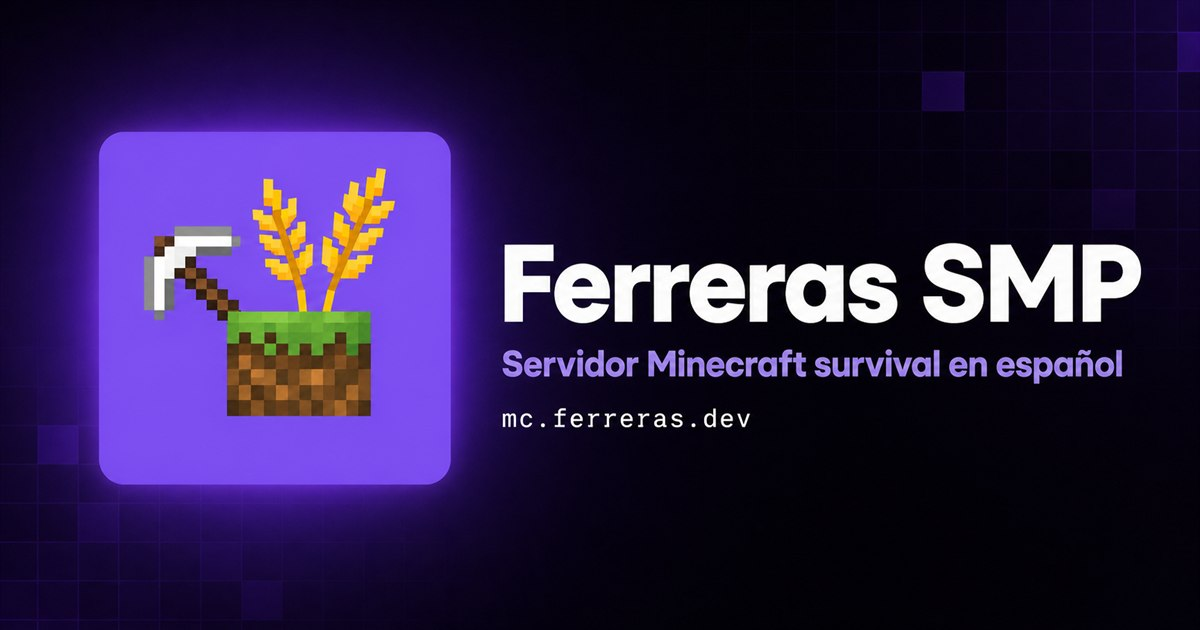
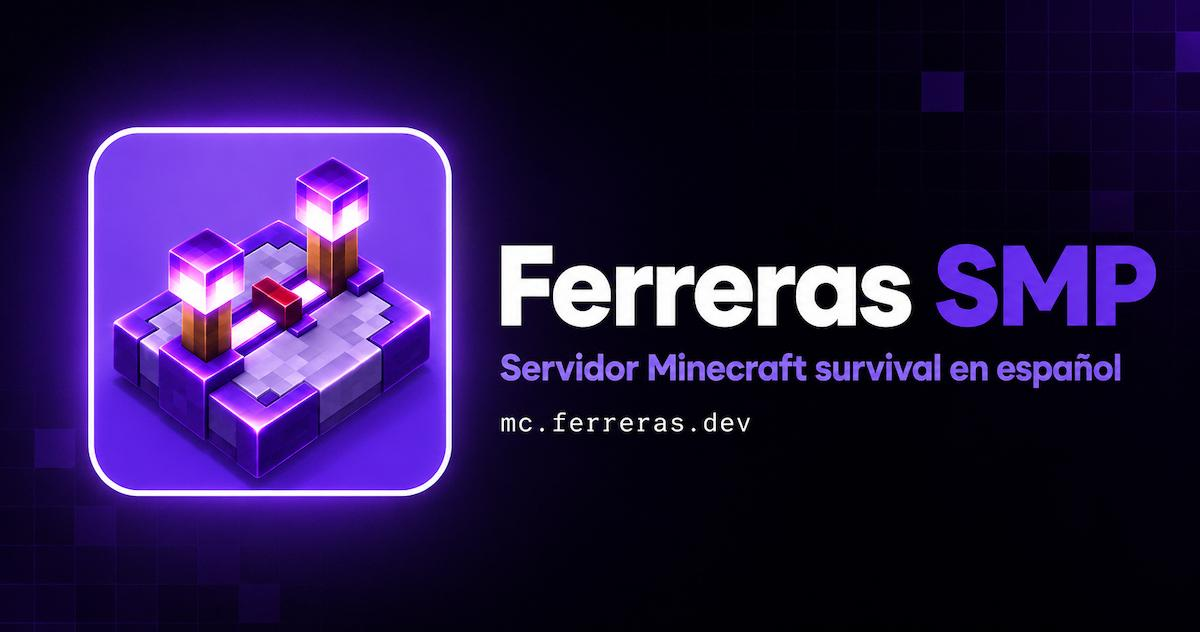
Update site branding assets

Changed region(s): [[0.0617, 0.1508, 0.9867, 0.8143], [0.9558, 0.0302, 1.0, 0.0905]]

diff --git a/src/styles/global.css b/src/styles/global.css
@@ -110,8 +110,8 @@ img {
 .brand img {
 	width: 80px;
 	height: 80px;
-	border-radius: 19px;
-	box-shadow: 0 6px 18px rgba(112, 64, 244, 0.24);
+	aspect-ratio: 1;
+	object-fit: contain;
 }
 
 .brand-copy {
@@ -120,6 +120,7 @@ img {
 }
 
 .brand-name {
+	font-family: var(--display);
 	font-size: 1.72rem;
 	font-weight: 800;
 	letter-spacing: -0.04em;
@@ -1401,7 +1402,6 @@ html[data-theme-preference='system'] .theme-icon-state .theme-icon-system {
 	.brand img {
 		width: 64px;
 		height: 64px;
-		border-radius: 16px;
 	}
 
 	.desktop-nav,
@@ -1533,7 +1533,6 @@ html[data-theme-preference='system'] .theme-icon-state .theme-icon-system {
 	.brand img {
 		width: 42px;
 		height: 42px;
-		border-radius: 11px;
 	}
 
 	.brand-name {
